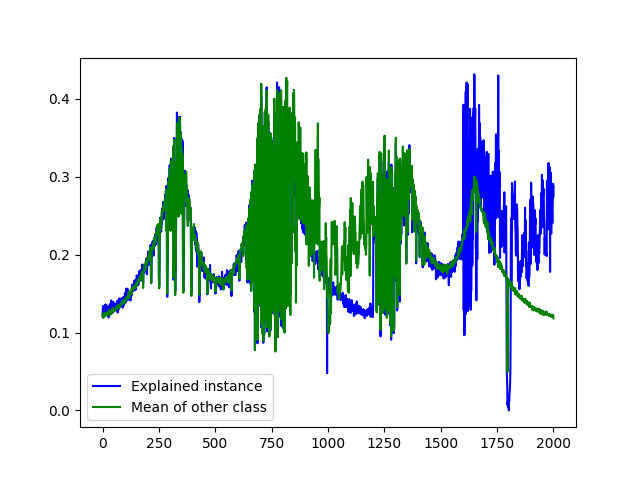
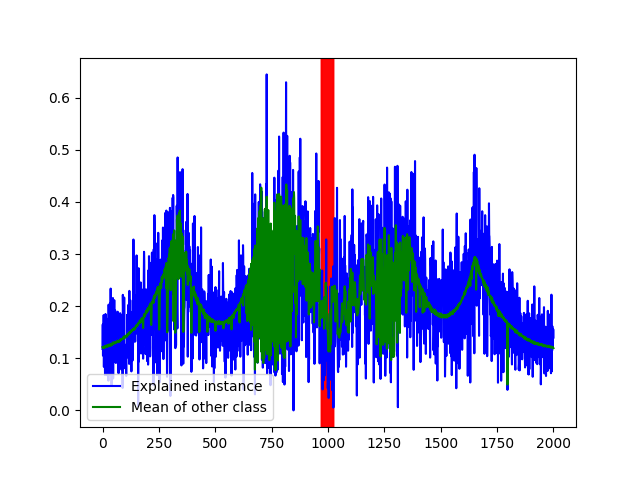
earth++

diff --git a/interpreter.py b/interpreter.py
@@ -79,12 +79,20 @@ if __name__ == "__main__":
 
     # PC : 1, 4, 8, 9, 11, 13, 14, 16, 23, 27            |  !PC: 0, 2, 3, 5, 6, 7, 10, 12, 15, 17
 
+    aux = []
+
+    for index, value in enumerate(test_X_shaped):
+        if test_Y[index] == 0:
+            aux.append(value)
+
+    aux = np.array(aux)
+
     #idx = correct_predictions[0]
-    idx = 2613
-    groups = createGroups(test_X_shaped[idx], 40, 5)
+    idx = 1
+    #groups = createGroups(test_X_shaped[idx], 40, 5)
     series = test_X_shaped[idx]
     #series = cloneSegment(2, 4, groups, test_X_shaped, idx)
-    series = shiftSegments(2, 4, groups, test_X_shaped, idx)
+    #series = shiftSegments(2, 4, groups, test_X_shaped, idx)
 
     explainer = LimeTimeSeriesExplanation(
         class_names=['0', '1'], feature_selection='lasso_path')
@@ -93,7 +101,7 @@ if __name__ == "__main__":
 
     values_per_slice = math.ceil(len(series) / 40)
     plt.plot(series, color='b', label='Explained instance')
-    plt.plot(test_X_shaped[(idx+1):, :].mean(axis=0),
+    plt.plot(aux[:, :].mean(axis=0),
              color='green', label='Mean of other class')
     plt.legend(loc='lower left')
     for i in range(5):
